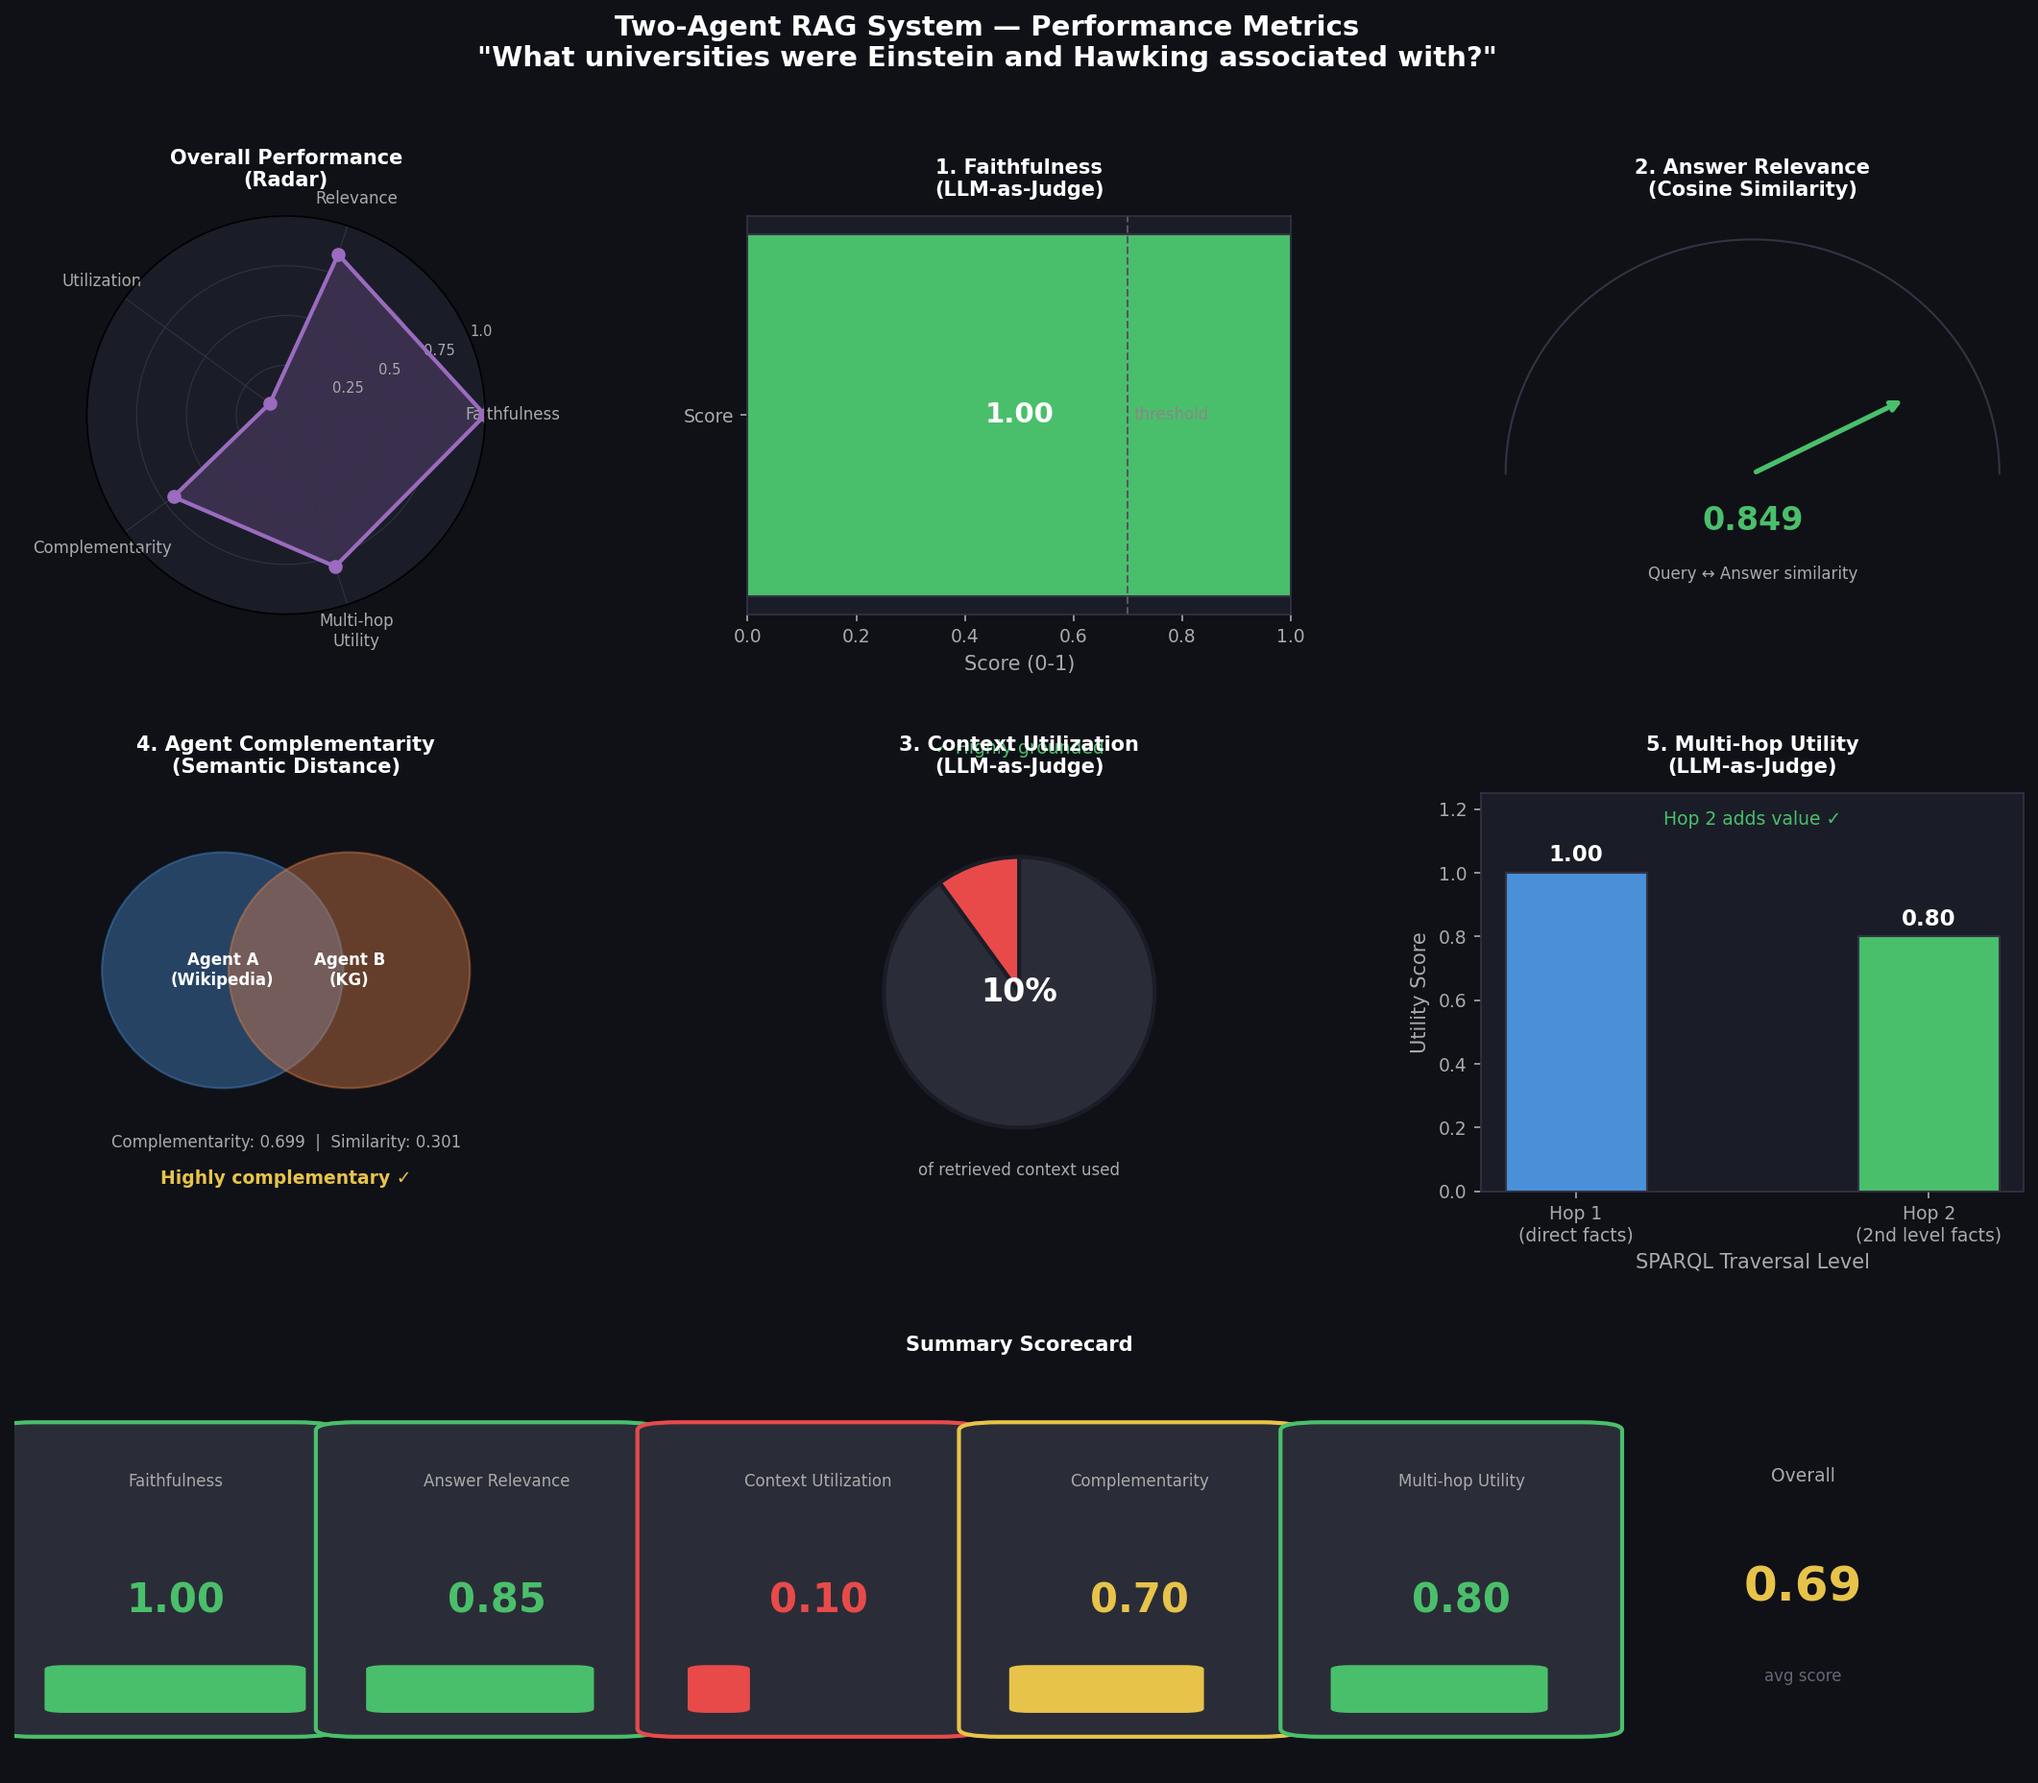
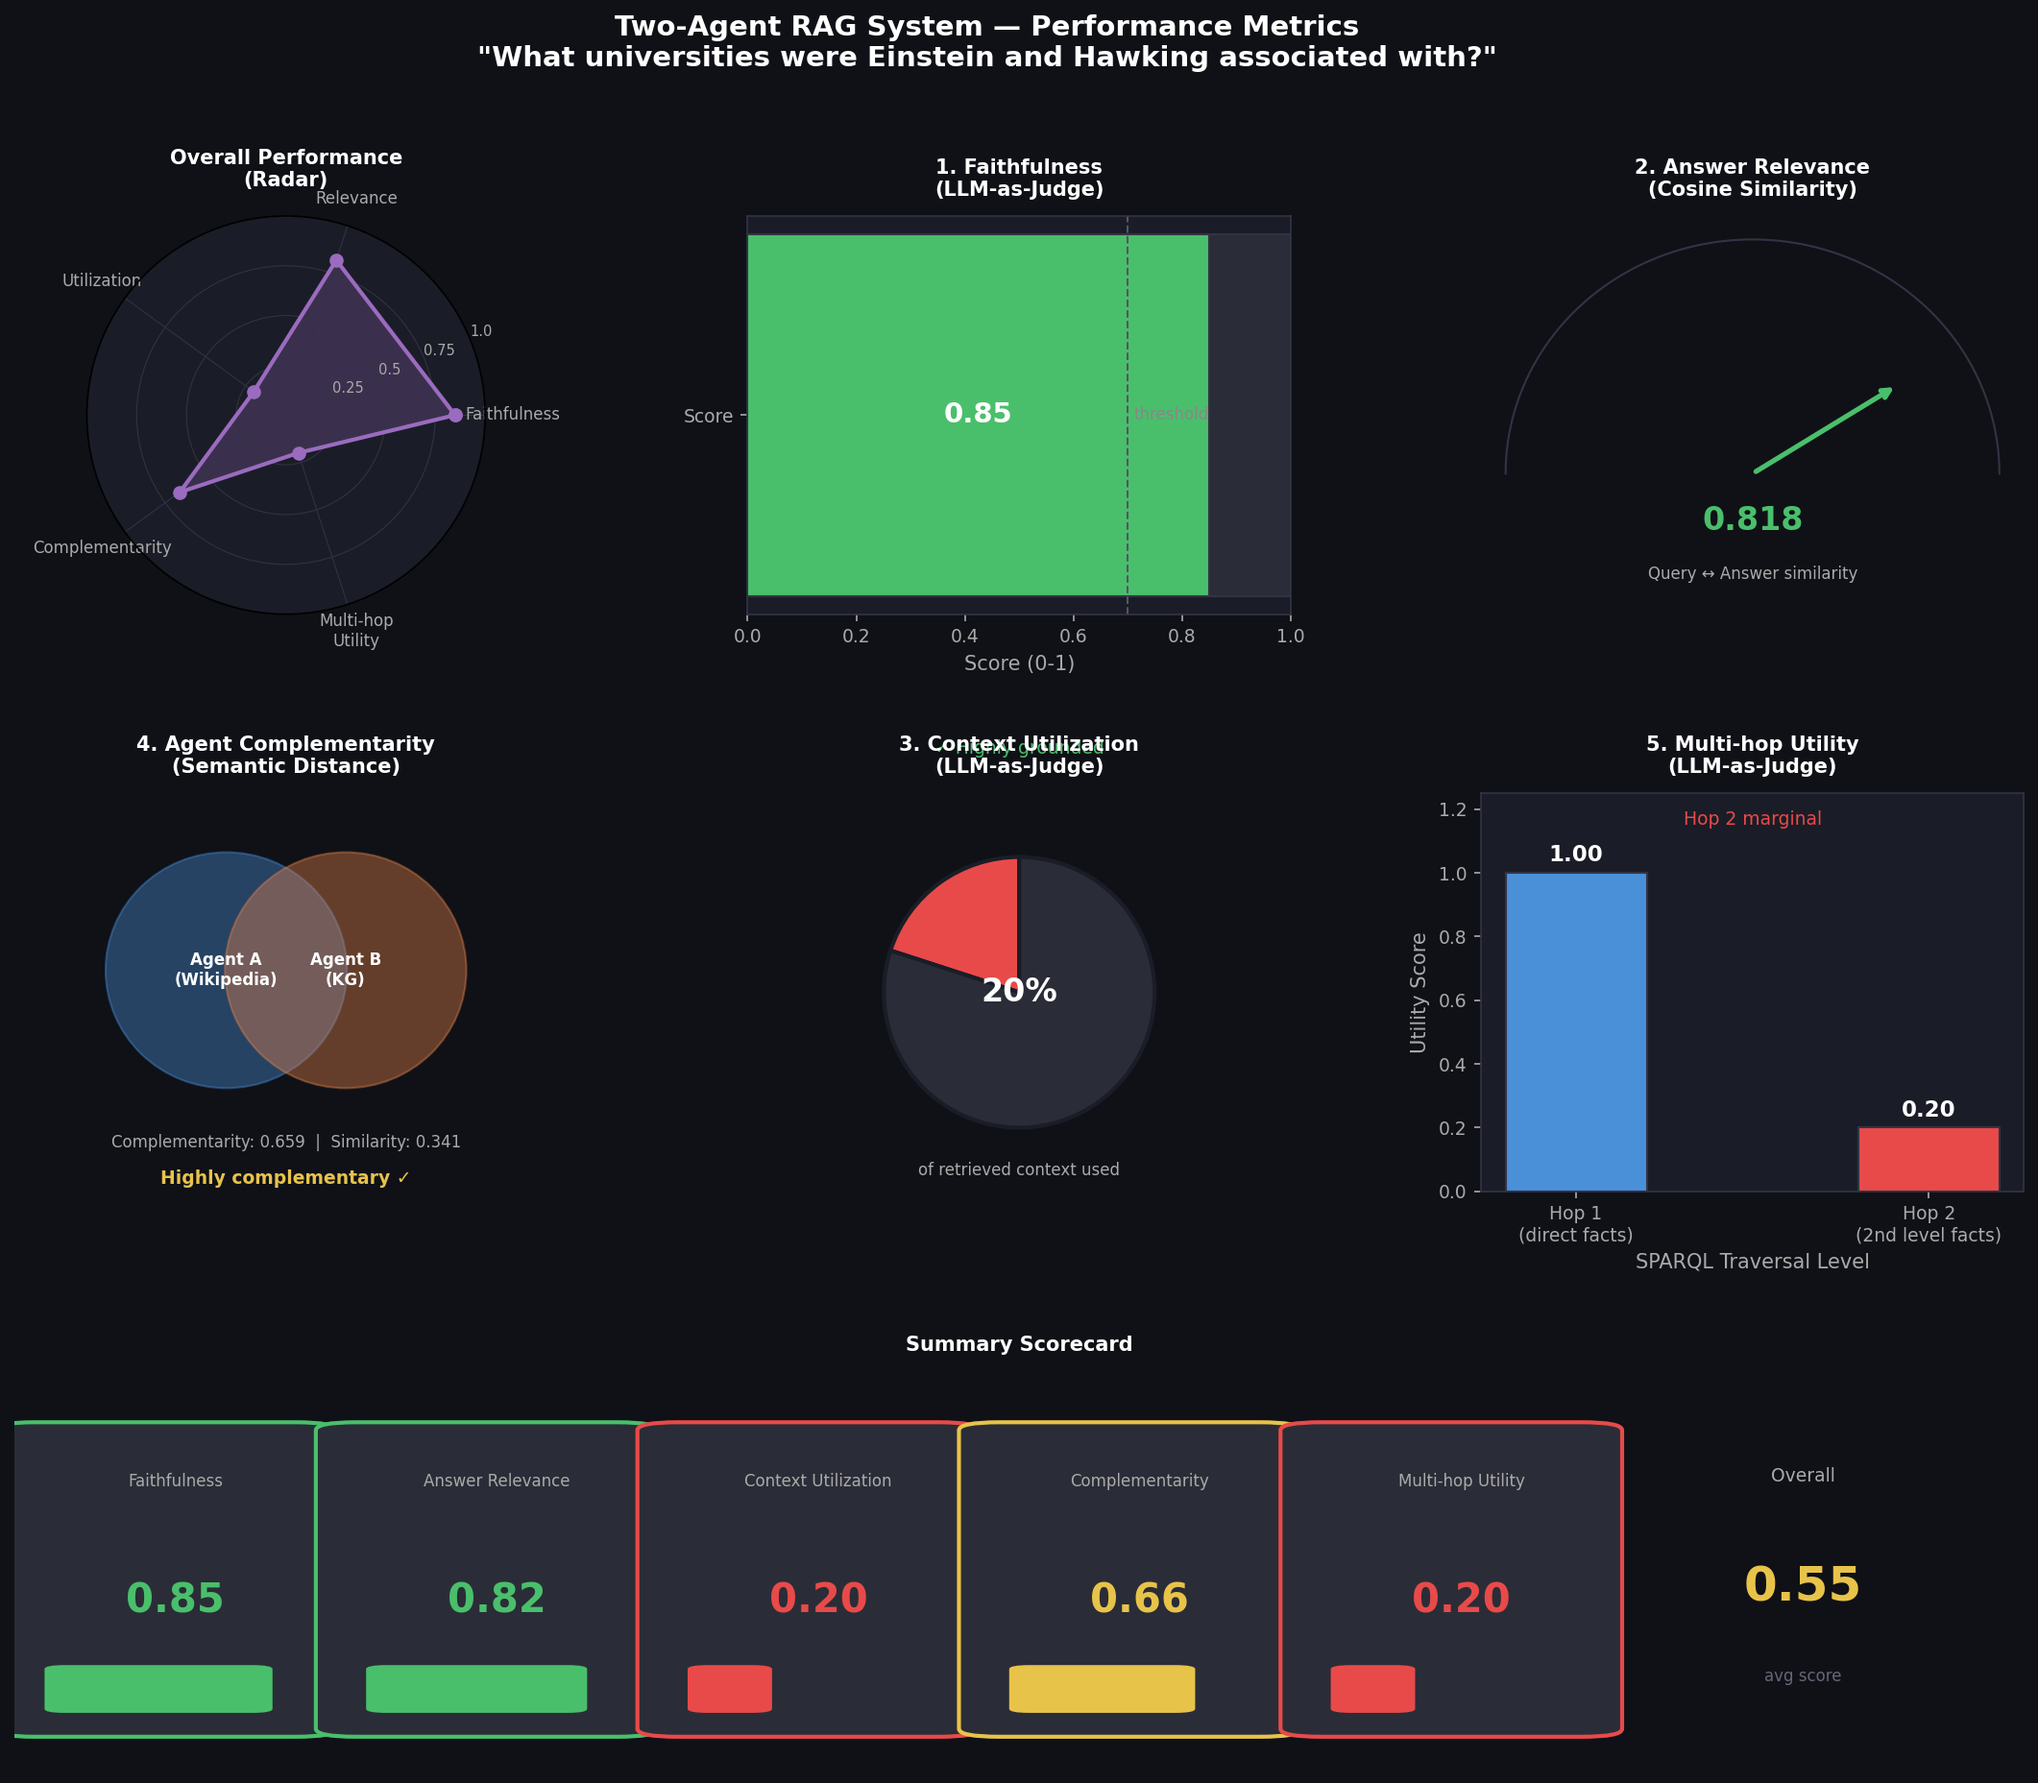
update:  faithfulness, updated metrics and readme

diff --git a/README.md b/README.md
@@ -39,7 +39,7 @@ The whole flow is orchestrated using **LangGraph** - each agent is a node, infor
 
 ## Metrics
 
-![Evaluation Results](res1.png)
+![Evaluation Results](res2.png)
 
 | Metric | Score | What it means |
 |--------|-------|---------------|
